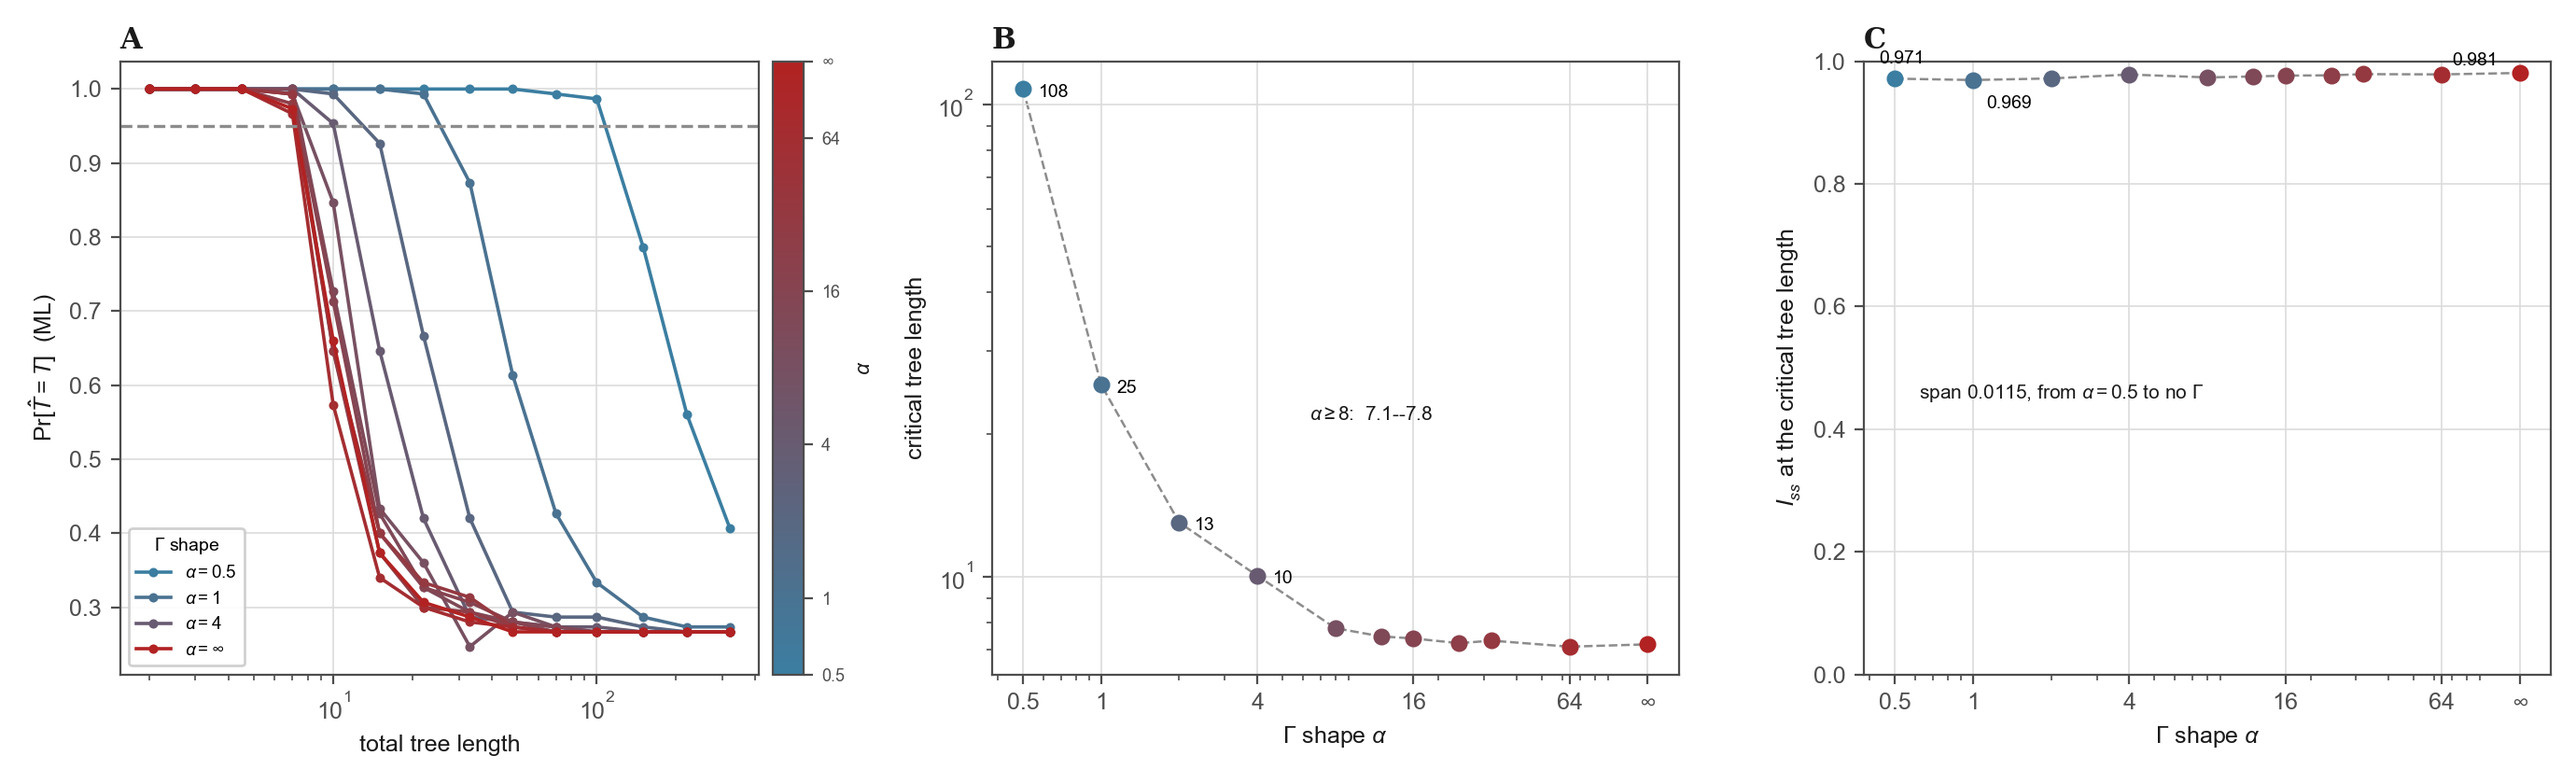
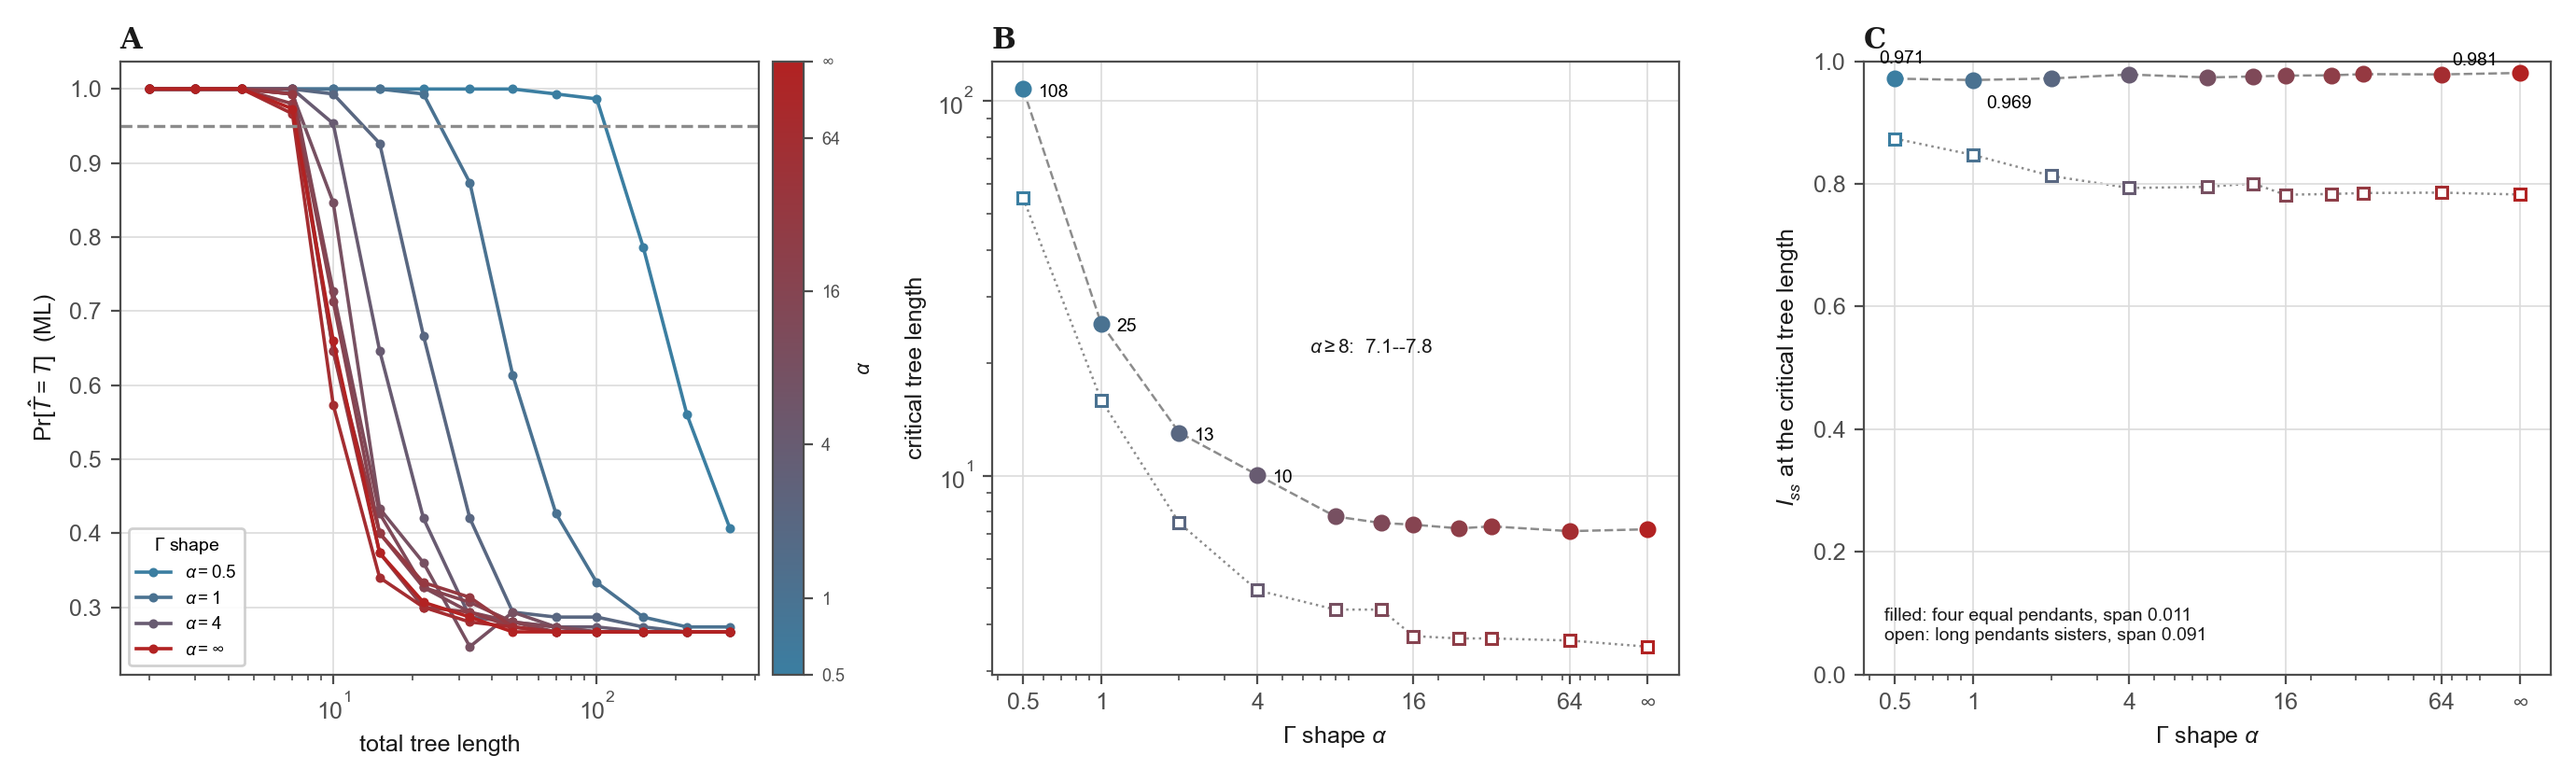
fix(rs): three corrections to Part I, and the figure that prompted them
Figure 2's caption read the near-invariance of the critical value against
rate heterogeneity as a property of the index, and attributed it to the
index being near its ceiling. It is a property of the configuration: the
tree there has four equal pendants, the critical index sits at 0.98, and a
quantity pinned just below its ceiling has nowhere to move. The figure now
carries both arrangements, and the caption and the four places in the text
that made the claim are scoped to the one it was measured on.

The same passage also said the index moves by "less than 0.01" while another
said 0.0115; the measured span is 0.0115, and both now say so.

Two further corrections. Theorem 5's variance result was read as fixing the
functional form of the tabulated surface, but Theta(L^-1) is a statement
about the noise on the estimator at a fixed tree; Iss.c is the index of the
tree at which recovery reaches 95%, and that tree moves with L, so the
exponent is not 1/2. The companion paper is now cited for the measured
0.061-0.585. And the Farris zone was attributed to Hendy & Penny (1989), a
general framework paper; it is named by Siddall (1998).

diff --git a/RS_preprint/manuscript.tex b/RS_preprint/manuscript.tex
@@ -74,10 +74,13 @@ composition, which its user has not fixed. The mean of $\lambda$ reduces the
 same way.
 
 The critical value fails separately: it carries no rate-heterogeneity
-coordinate, and near saturation the index is pinned within a few percent of
-its ceiling, a fifteen-fold change in the tree length at which recovery fails
-moving it by $1.2\%$. A four-taxon
-transfer of long branches at fixed patristic total makes this direct: the
+coordinate, and on a symmetric tree a fifteen-fold change in the tree length
+at which recovery fails moves it by only $1.2\%$, because there the index is
+pinned within a few percent of its ceiling and has nowhere to go. That
+insensitivity is a property of the configuration, not of the index: on a
+Farris arrangement with the same tree length and the same protocol the same
+fifteen-fold change moves the critical value by $8\%$. A four-taxon transfer
+of long branches at fixed patristic total makes the point differently: the
 index is constant along the path while recovery spans its full range.
 
 Real data occupy both: the saturated codon partition of the index's
@@ -517,13 +520,21 @@ The level set $\{\,TL:\Iss(TL;\alpha)=\theta\,\}$ --- and hence both $TL_c$
 and $\Iss(TL_c)$ --- therefore depends on $\alpha$.
 \end{proof}
 
-The dependence is not, by itself, fatal, and Section~\ref{sec:collapse} shows
-that it is weaker than it sounds: over the range of $\alpha$ that matters,
-$TL_c$ moves by a factor of $15$ while $\Issc$ moves by less than $0.01$. The
-charge is therefore not that the threshold is unusable but that it is
-mis-calibrated in a way its user cannot detect: the critical tree length does
-depend strongly on $\alpha$, the index does not carry that dependence, and a
-table with no $\alpha$ coordinate silently maps one onto the other.
+The dependence is not, by itself, fatal, and on the symmetric tree of
+Figure~\ref{fig:tlc} it is weaker than it sounds: over the range of $\alpha$
+that matters, $TL_c$ moves by a factor of $15$ while $\Issc$ moves by
+$0.0115$. That weakness is a property of the configuration, not of the
+index. On a Farris arrangement with the same tree length, the same internal
+fraction and the same protocol, the same fifteen-fold movement in $TL_c$
+moves $\Issc$ by $0.091$ --- eight times as much, and monotonically ---
+because there the index sits well below its ceiling and has room to respond
+(Figure~\ref{fig:tlc}, open symbols).
+
+The charge is therefore not that the threshold is unusable but that it is
+mis-calibrated in a way its user cannot detect: the critical tree length
+depends strongly on $\alpha$, the index does not carry that dependence in any
+form a user can read off, and a table with no $\alpha$ coordinate silently
+maps one onto the other.
 
 \subsection{When the index collapses onto \texorpdfstring{$p$}{p}-distance}
 \label{sec:criterion}
@@ -803,14 +814,25 @@ $\Pr[\hat{\mathcal T}=\mathcal T]$ depends on sequence length. The dependence
 is therefore not overlooked, and the threshold being $L$-indexed is a
 deliberate design decision rather than an error.
 
-What Theorem~\ref{thm:length} supplies is why the dependence has the form it
-does. $\Iss$ is an average over sites and cannot depend on $L$ except through
-finite-sample noise; $\HFSS$ is pooled over $NL$ observations and is
-$\sqrt N$ better determined than $\Hbar$; so $\Var(\Iss)=\Theta(L^{-1})$
-exactly, and the critical value must move with $L$ at rate $L^{-1/2}$ to hold
-a decision threshold fixed. That is the mechanism behind Figure~3, and it
-fixes the functional form of the tabulated surface rather than merely
-exhibiting it.
+What Theorem~\ref{thm:length} supplies is why the \emph{sampling} dependence
+has the form it does. $\Iss$ is an average over sites and cannot depend on
+$L$ except through finite-sample noise; $\HFSS$ is pooled over $NL$
+observations and is $\sqrt N$ better determined than $\Hbar$; so
+$\Var(\Iss)=\Theta(L^{-1})$, and a decision threshold held at a fixed
+significance level must therefore move with $L$ at rate $L^{-1/2}$.
+
+That is a statement about the noise on the estimator at a fixed tree, and an
+earlier version of this work read it as a statement about $\Issc$. It is not
+one. $\Issc$ is the index of the tree at which recovery falls to $95\%$, and
+that tree is a different tree at each $L$: adding sites moves the boundary
+outward, to configurations that are further into saturation. The threshold is
+therefore carried by the motion of the critical tree as well as by the noise,
+and the exponent governing $\Issc(L)$ is not $1/2$. In the companion paper
+\citep{xu2026part2} it is measured at $0.061$ to $0.585$ across
+configurations, drifting within a single configuration, and identified as a
+ratio of two local rates. The $L^{-1/2}$ law describes the sampling threshold
+of a fixed tree; $\Issc(L)$ is a signal threshold; they are different objects,
+and only the first is fixed by Theorem~\ref{thm:length}.
 
 \begin{corollary}[A fixed margin does not stay fixed]
 \label{cor:length}
@@ -996,17 +1018,23 @@ accurate there.
 \begin{figure}[t]
 \centering
 \includegraphics[width=\textwidth]{figures/fig9_tlc_alpha.png}
-\caption{The critical point against rate heterogeneity.
+\caption{The critical point against rate heterogeneity, and the index at it.
 \textbf{A}, recovery of the true quartet under maximum likelihood against
-tree length, one curve per $\Gamma$ shape, $N=4$, $L=1000$, $150$ replicates
-per point; the dashed line is $0.95$. \textbf{B}, the tree length at which
-each curve crosses it, on axes that put $\alpha=\infty$ one doubling beyond
-the largest finite shape. \textbf{C}, the exact expected index at those tree
-lengths, on the same $0$--$1$ scale as the index itself. A fifteen-fold change
-in the first has no visible effect on the second: the threshold is nearly
-invariant to rate heterogeneity because the index is nearly at its ceiling,
-not because it is well calibrated. The ladder stops at $\alpha=0.5$; see the
-text for why.}
+tree length for the symmetric tree, one curve per $\Gamma$ shape, $N=4$,
+$L=1000$, $150$ replicates per point; the dashed line is $0.95$. \textbf{B},
+the tree length at which each curve crosses it, on axes that put
+$\alpha=\infty$ one doubling beyond the largest finite shape, for the
+symmetric tree (filled) and for a Farris arrangement (open) with the same
+tree length, the same internal fraction, the same protocol and only the
+pendant split changed. \textbf{C}, the exact expected index at those tree
+lengths, on the same $0$--$1$ scale as the index itself. The two
+configurations move their critical tree length by the same factor of fifteen
+and the index by very different amounts: $0.011$ where the four pendants are
+equal, $0.091$ where the long ones are sisters. The near-invariance is
+therefore a property of the near-ceiling configuration and not of the index:
+pinned just below its ceiling the index has nowhere to move, and away from
+the ceiling it moves. The ladder stops at $\alpha=0.5$; see the text for
+why.}
 \label{fig:tlc}
 \end{figure}
 
@@ -1017,10 +1045,12 @@ The first is intrinsic. By Eq.~\eqref{eq:sensitivity} the index's elasticity
 with respect to $\Psi$ vanishes as $\Psi\to0$, whatever produced the
 divergence, so $\Iss$ is a strictly decreasing function of $\Psi$ whose slope
 goes to zero at the point where it is read. A fifteen-fold change in the tree
-length moves it by $0.0115$, which is $1.2\%$ of its scale. No amount of data
-recovers a quantity that the statistic has stopped responding to; that is a
-statement about what $\Iss$ is a function of, and it is the one the rest of
-this paper rests on.
+length moves it by $0.0115$ on the symmetric tree, which is $1.2\%$ of its
+scale, and by $0.091$ on the Farris arrangement of
+Figure~\ref{fig:tlc} --- the difference being only how far below the ceiling
+the index sits. No amount of data recovers a quantity that the statistic has
+stopped responding to; that is a statement about what $\Iss$ is a function
+of, and it is the one the rest of this paper rests on.
 
 The second is a matter of power, and it is weaker. The exact variance of
 Lemma~\ref{lem:moment}, evaluated on this quartet, gives $\mathrm{SE}(\Iss)$
@@ -1277,7 +1307,7 @@ $((A,B),(C,D))$ with pendant lengths
 \end{equation}
 so that at $t=0$ the two long branches are separated by the internal branch
 --- the Felsenstein zone \citep{felsenstein1978cases} --- and at $t=p-q$ they
-are adjacent, the Farris zone \citep{hendy1989unrooted}. The sum of the six pairwise distances is $6p+6q+4r$, independent of
+are adjacent, the Farris zone \citep{siddall1998}. The sum of the six pairwise distances is $6p+6q+4r$, independent of
 $t$; and at $r=0$ the endpoint distance multisets coincide exactly, so $\Iss$
 is identical at the two ends.
 

diff --git a/scripts/s07_figures.py b/scripts/s07_figures.py
@@ -725,6 +725,10 @@ def fig_tlc_alpha():
     from matplotlib.colors import LinearSegmentedColormap, Normalize
     p = pd.read_csv(d)
     cr = pd.read_csv(c).sort_values("alpha")
+    # the same sweep on a Farris arrangement: identical tree length, identical
+    # internal fraction, only the pendant split changed (scripts/s14b)
+    c2 = RES / "exp7b_tlc_alpha_farris" / "critical.csv"
+    cr2 = pd.read_csv(c2).sort_values("alpha") if c2.exists() else None
 
     # Eleven categories is past what a qualitative palette can carry, so the
     # ordering is a two-hue gradient and the scale a colour bar.  A colour sits
@@ -802,6 +806,13 @@ def fig_tlc_alpha():
     for _, r in ok.iterrows():
         ax.plot(xa(r.alpha), r.tl_c, "o", ms=5.5, color=col[float(r.alpha)],
                 zorder=3)
+    if cr2 is not None:
+        ok2 = cr2.dropna(subset=["tl_c"])
+        ax.plot([xa(a) for a in ok2.alpha], ok2.tl_c, ls=":", lw=0.9,
+                color=C["grey"], zorder=1)
+        for _, r in ok2.iterrows():
+            ax.plot(xa(r.alpha), r.tl_c, "s", ms=4.4, mfc="white",
+                    mec=col[float(r.alpha)], mew=1.1, zorder=4)
     # the flat run from alpha = 8 to no gamma is one step wide; labelling each
     # point would collide, so it gets a single note
     for a in (4.0, 2.0, 1.0, 0.5):
@@ -828,8 +839,22 @@ def fig_tlc_alpha():
         for _, r in ok[np.isclose(ok.alpha, a)].head(1).iterrows():
             ax.annotate(f"{r.iss_c:.3f}", (xa(r.alpha), r.iss_c), fontsize=7,
                         textcoords="offset points", xytext=(dx, dy))
-    ax.annotate("span 0.0115, from $\\alpha=0.5$ to no $\\Gamma$",
-                (0.62, 0.45), fontsize=7.5, color=C["black"])
+    if cr2 is not None:
+        ok2 = cr2.dropna(subset=["iss_c"])
+        ax.plot([xa(a) for a in ok2.alpha], ok2.iss_c, ls=":", lw=0.9,
+                color=C["grey"], zorder=1)
+        for _, r in ok2.iterrows():
+            ax.plot(xa(r.alpha), r.iss_c, "s", ms=4.4, mfc="white",
+                    mec=col[float(r.alpha)], mew=1.1, zorder=4)
+        sp1 = ok.iss_c.max() - ok.iss_c.min()
+        sp2 = ok2.iss_c.max() - ok2.iss_c.min()
+        ax.annotate(f"filled: four equal pendants, span {sp1:.3f}\n"
+                    f"open: long pendants sisters, span {sp2:.3f}",
+                    (0.03, 0.05), fontsize=7.0, color=C["black"],
+                    xycoords="axes fraction", va="bottom")
+    else:
+        ax.annotate("span 0.0115, from $\\alpha=0.5$ to no $\\Gamma$",
+                    (0.62, 0.45), fontsize=7.5, color=C["black"])
     ax.set_ylim(0.0, 1.0)
     ax.set_ylabel(r"$I_{ss}$ at the critical tree length")
     ladder(ax)
